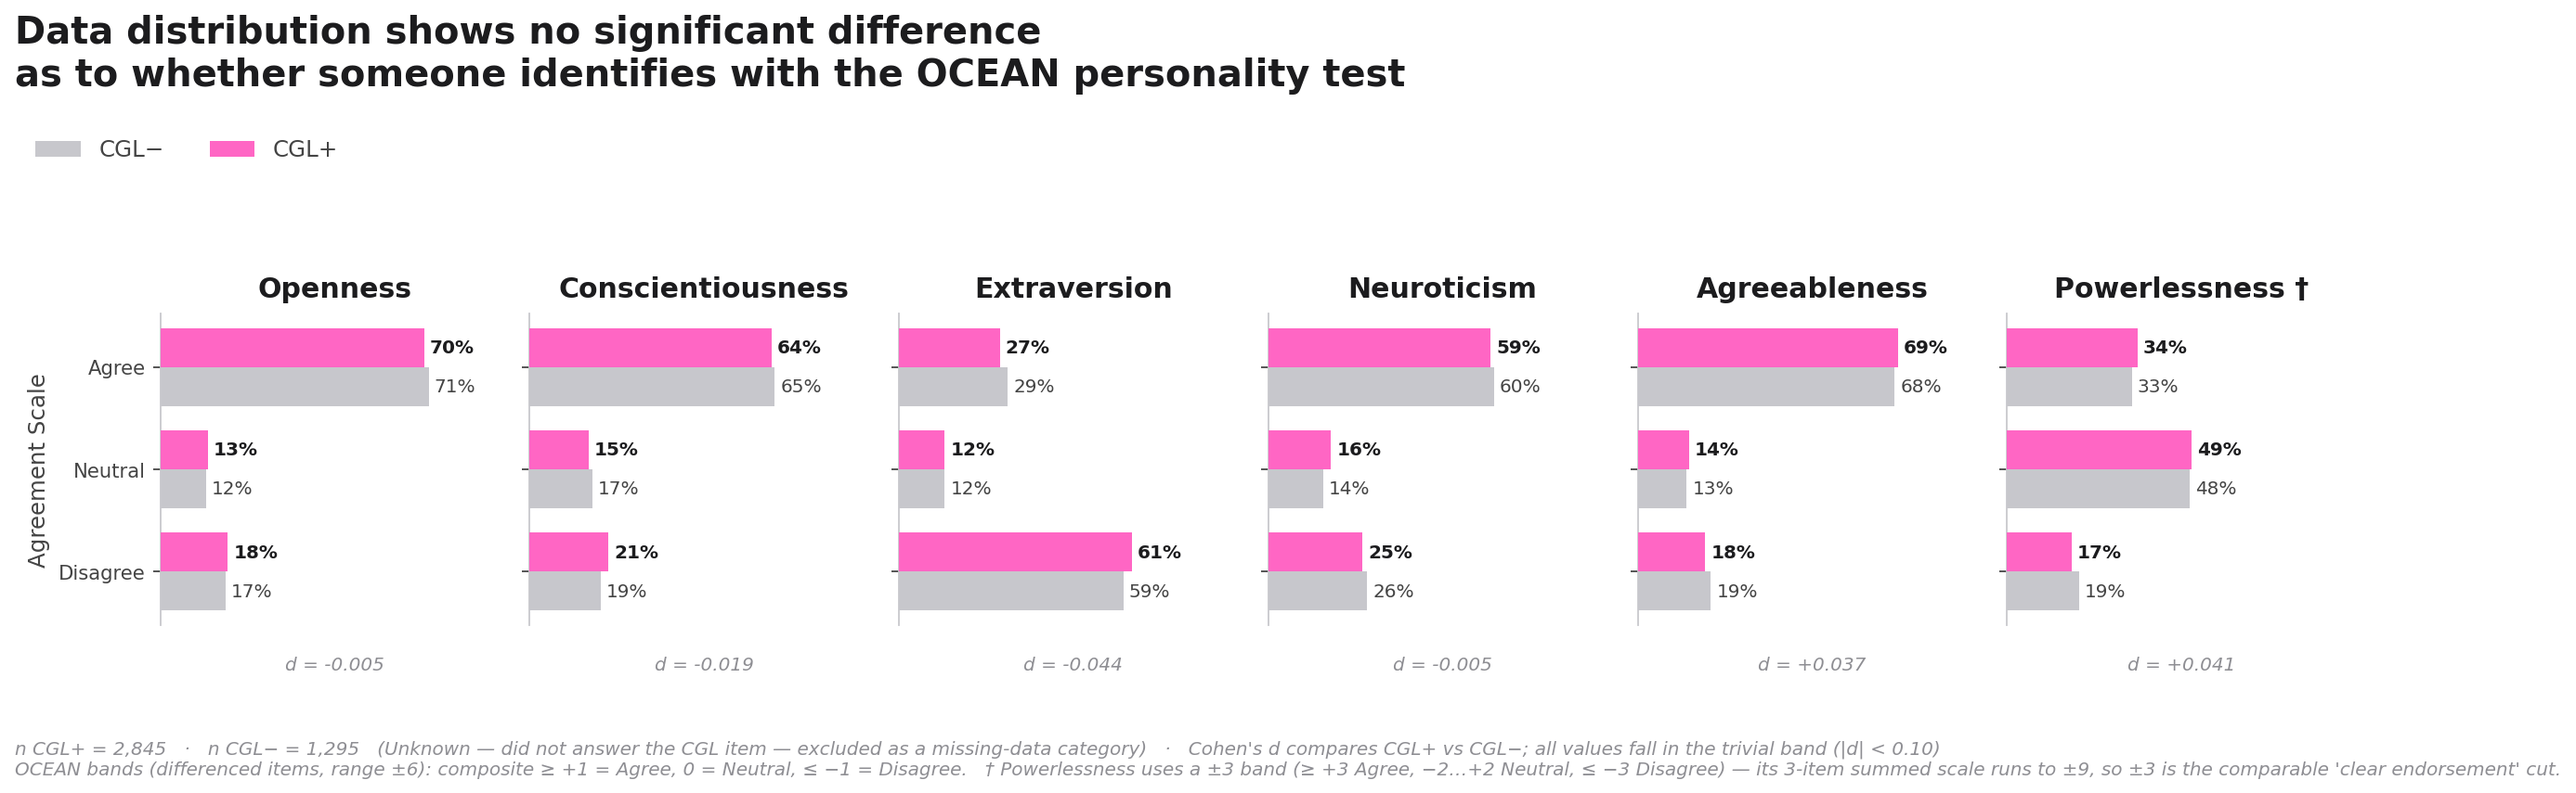
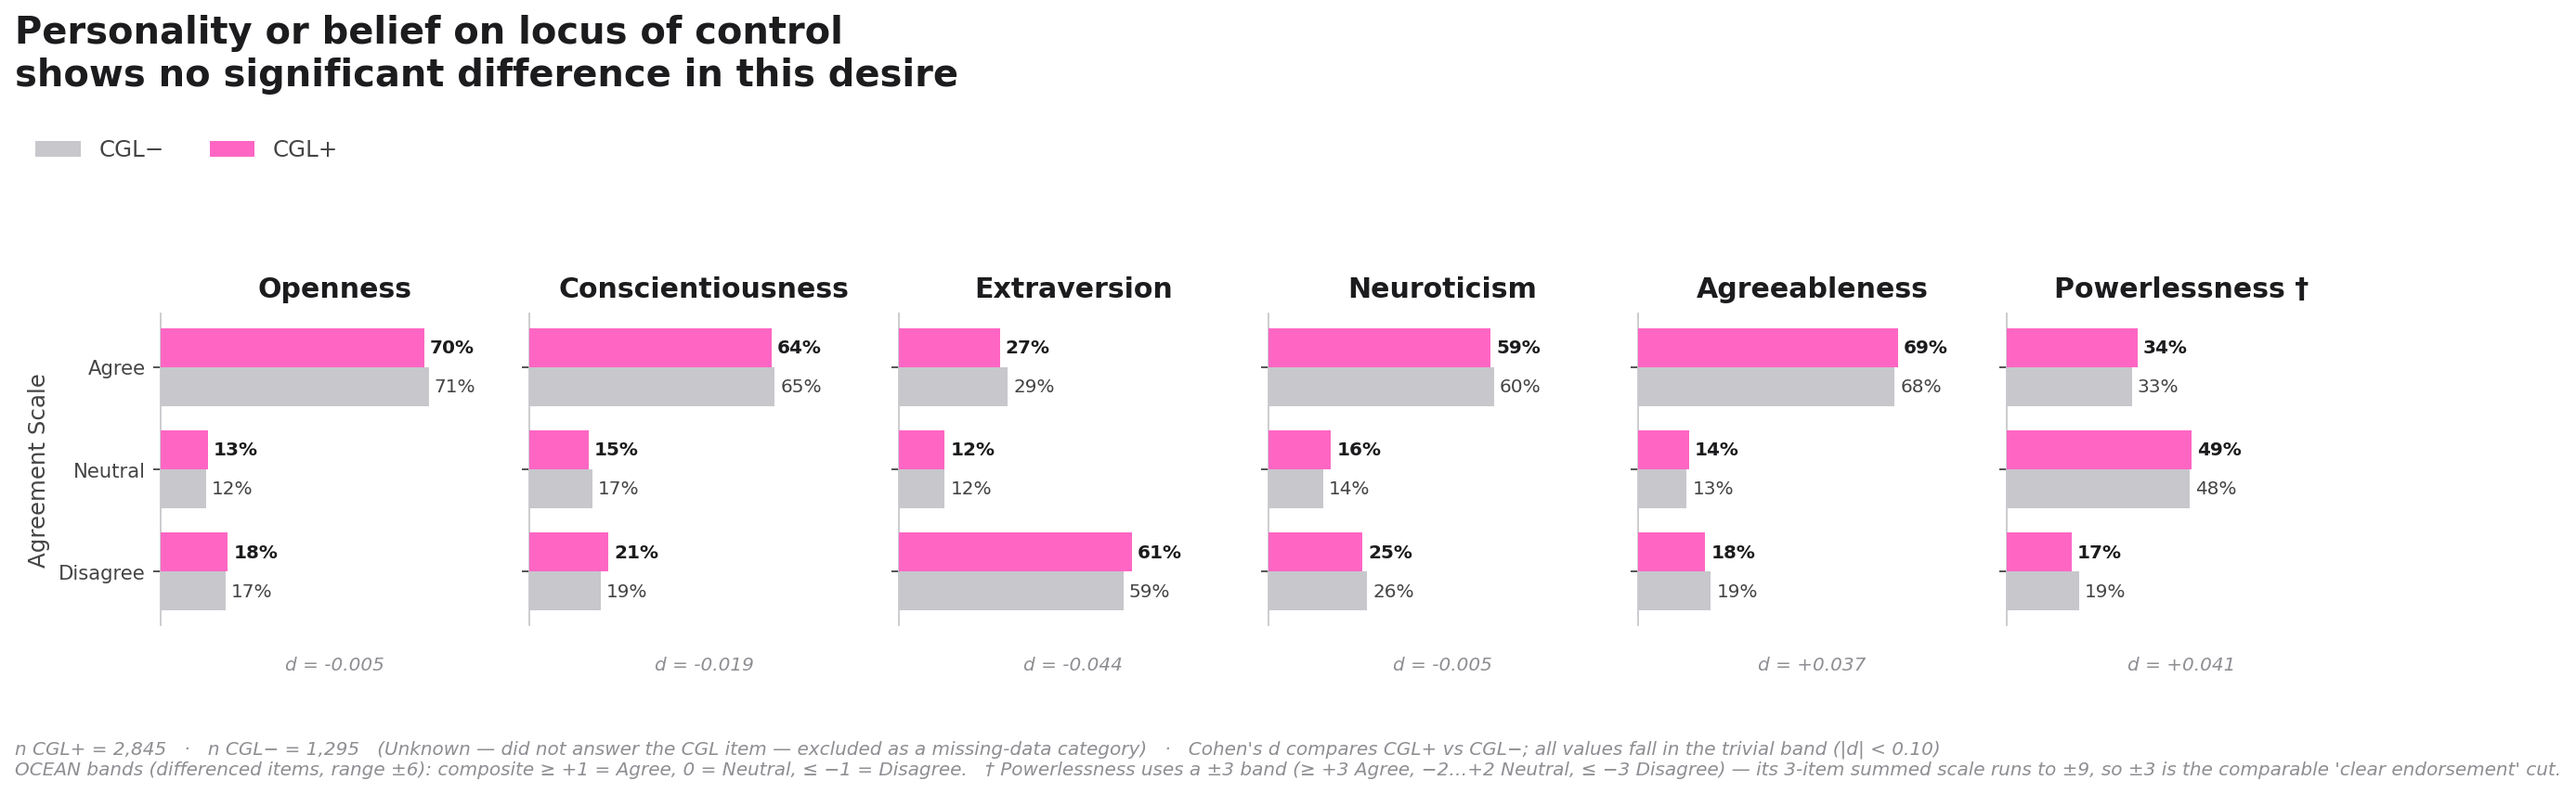
Retitle personality figure to name locus of control

Changed region(s): [[0.0, 0.0, 0.558, 0.1216]]

diff --git a/build_story_figures.py b/build_story_figures.py
@@ -256,8 +256,8 @@ def figure_personality(df: pd.DataFrame) -> None:
 
     # Headline title — placed via fig.suptitle so layout reserves space for it.
     fig.suptitle(
-        "Data distribution shows no significant difference\n"
-        "as to whether someone identifies with the OCEAN personality test",
+        "Personality or belief on locus of control\n"
+        "shows no significant difference in this desire",
         x=0.005, y=0.995, ha="left", va="top",
         fontsize=18, fontweight="bold", color=INK["primary"],
     )
